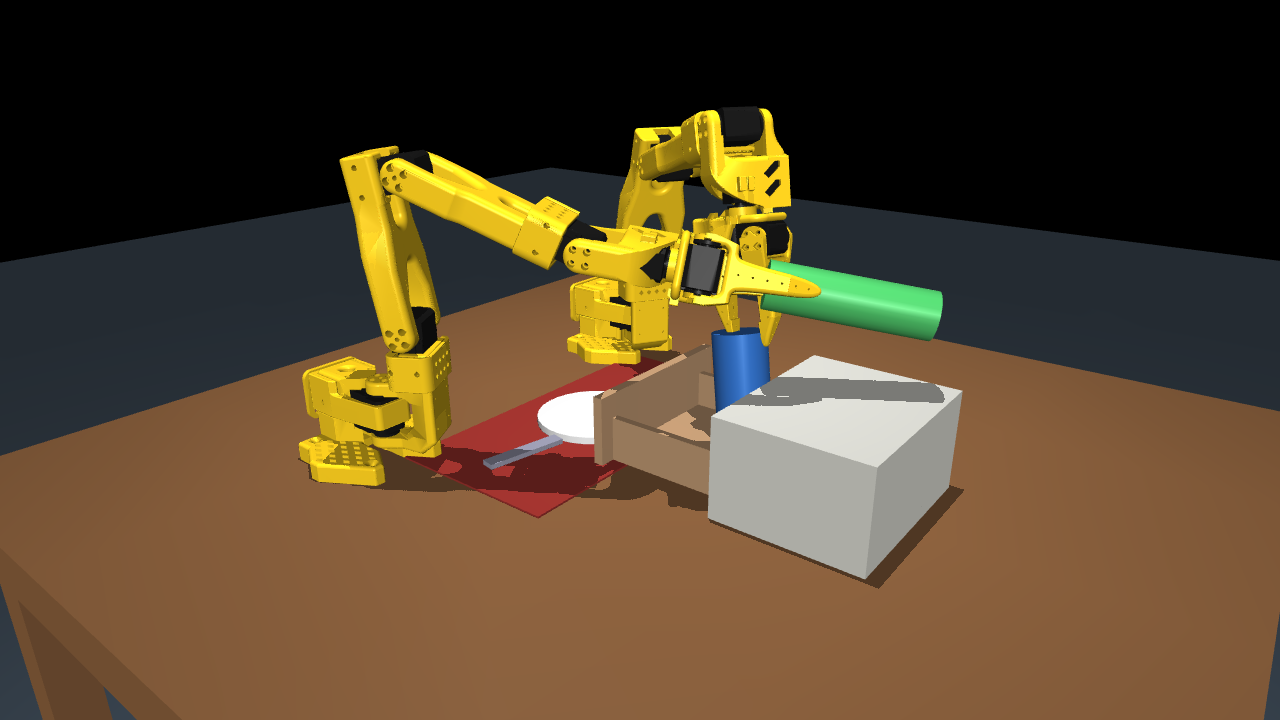
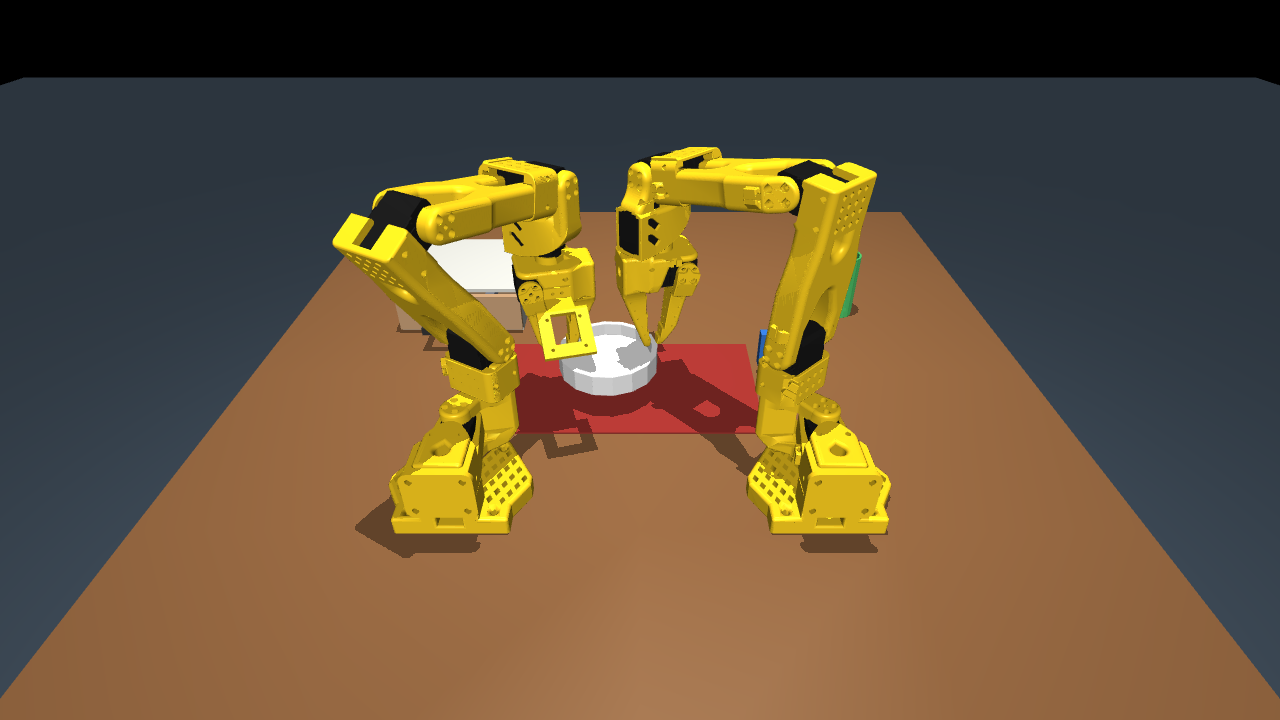
chore: detached training/recording pipelines (Task Scheduler), dataset aggregation tool, re-rendered media

diff --git a/tools/aggregate_contact.py b/tools/aggregate_contact.py
@@ -1,0 +1,45 @@
+"""Merge two locally recorded contact datasets into one LeRobot dataset.
+
+Both source datasets were written by ``data/record.py`` with the same features
+and task vocabulary, only from different seed ranges.
+
+Run:  .venv\Scripts\python.exe -m tools.aggregate_contact --roots data/dinner_table_contact data/dinner_table_contact_b --out data/dinner_table_contact_300
+"""
+import argparse
+import json
+import os
+import shutil
+from pathlib import Path
+
+ROOT = Path(__file__).resolve().parent.parent
+
+
+def main():
+    parser = argparse.ArgumentParser(description="Aggregate recorded LeRobot datasets.")
+    parser.add_argument("--roots", type=Path, nargs="+", required=True)
+    parser.add_argument("--out", type=Path, required=True)
+    parser.add_argument("--overwrite", action="store_true")
+    args = parser.parse_args()
+    os.environ["HF_HUB_OFFLINE"] = "1"
+    from data.record import REPO_ID
+    from lerobot.datasets.aggregate import aggregate_datasets
+
+    for root in args.roots:
+        if not (root / "meta" / "info.json").exists():
+            raise SystemExit(f"no LeRobot dataset at {root}")
+    if args.out.exists():
+        if not args.overwrite:
+            raise SystemExit(f"{args.out} exists; pass --overwrite to replace it")
+        shutil.rmtree(args.out)
+
+    aggregate_datasets(repo_ids=[REPO_ID] * len(args.roots), aggr_repo_id=REPO_ID + "_aggr",
+                       roots=list(args.roots), aggr_root=args.out)
+    info = json.loads((args.out / "meta" / "info.json").read_text(encoding="utf-8"))
+    sources = [json.loads((r / "meta" / "info.json").read_text(encoding="utf-8"))["total_episodes"] for r in args.roots]
+    print(f"aggregated {sources} -> {info['total_episodes']} episodes, {info['total_frames']} frames at {args.out}")
+    if info["total_episodes"] != sum(sources):
+        raise SystemExit("episode count mismatch")
+
+
+if __name__ == "__main__":
+    main()
